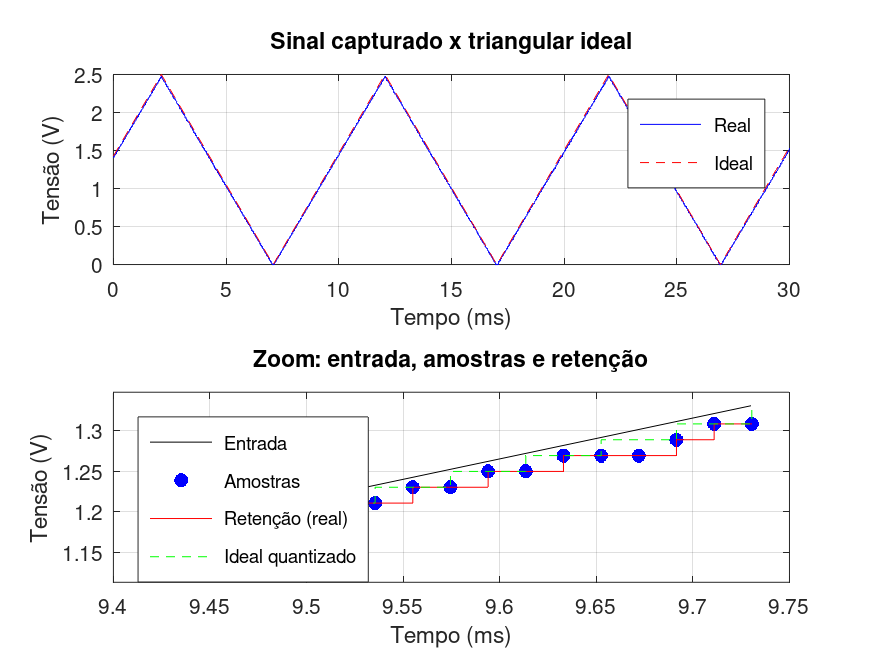
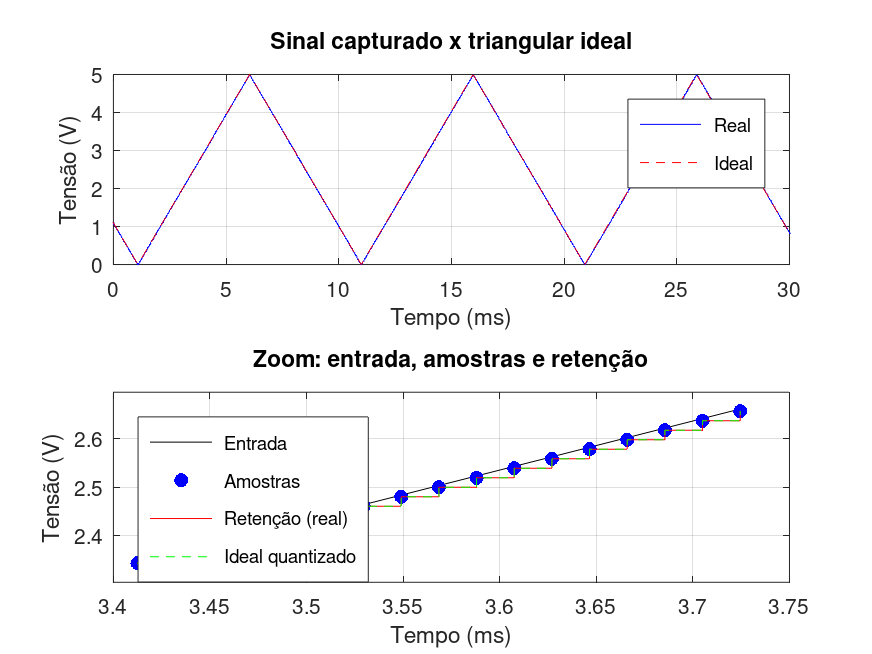
Atualizando o limite max

diff --git a/Problema2.m b/Problema2.m
@@ -50,12 +50,12 @@ MODO     = 'arquivo';           % 'serial' = captura com o Arduino
                                 % 'arquivo' = usa um .csv já salvo
 %PORTA   = 'COM5';              % Windows
 PORTA    = "/dev/ttyUSB0";      % Linux
-ARQUIVO  = 'captura_1_2.5V.csv';% onde a captura é salva (ou lida)
+ARQUIVO  = 'captura_1_2.5V_50Ohms.csv';% onde a captura é salva (ou lida)
 
 % Medidas feitas no laboratório
 VREF     = 5.0;                 % AVcc medido com multímetro (V)
 VIN_MIN  = 0.0;                 % mínimo da triangular no osciloscópio (V)
-VIN_MAX  = 2.5;                 % máximo da triangular no osciloscópio (V)
+VIN_MAX  = 5.0;                 % máximo da triangular no osciloscópio (V)
 F_GERADOR = 100;                % frequência ajustada no gerador (Hz)
 
 % Valores do projeto
@@ -99,9 +99,6 @@ if strcmp(MODO, 'serial')
 else
   codigos = csvread(ARQUIVO);
 end
-
-% A primeira conversão do ADC é mais lenta (25 ciclos): descarta o início
-codigos = codigos(6:end);
 
 N       = numel(codigos);
 t       = (0:N-1)'/FS;                      % instante de cada amostra (s)
